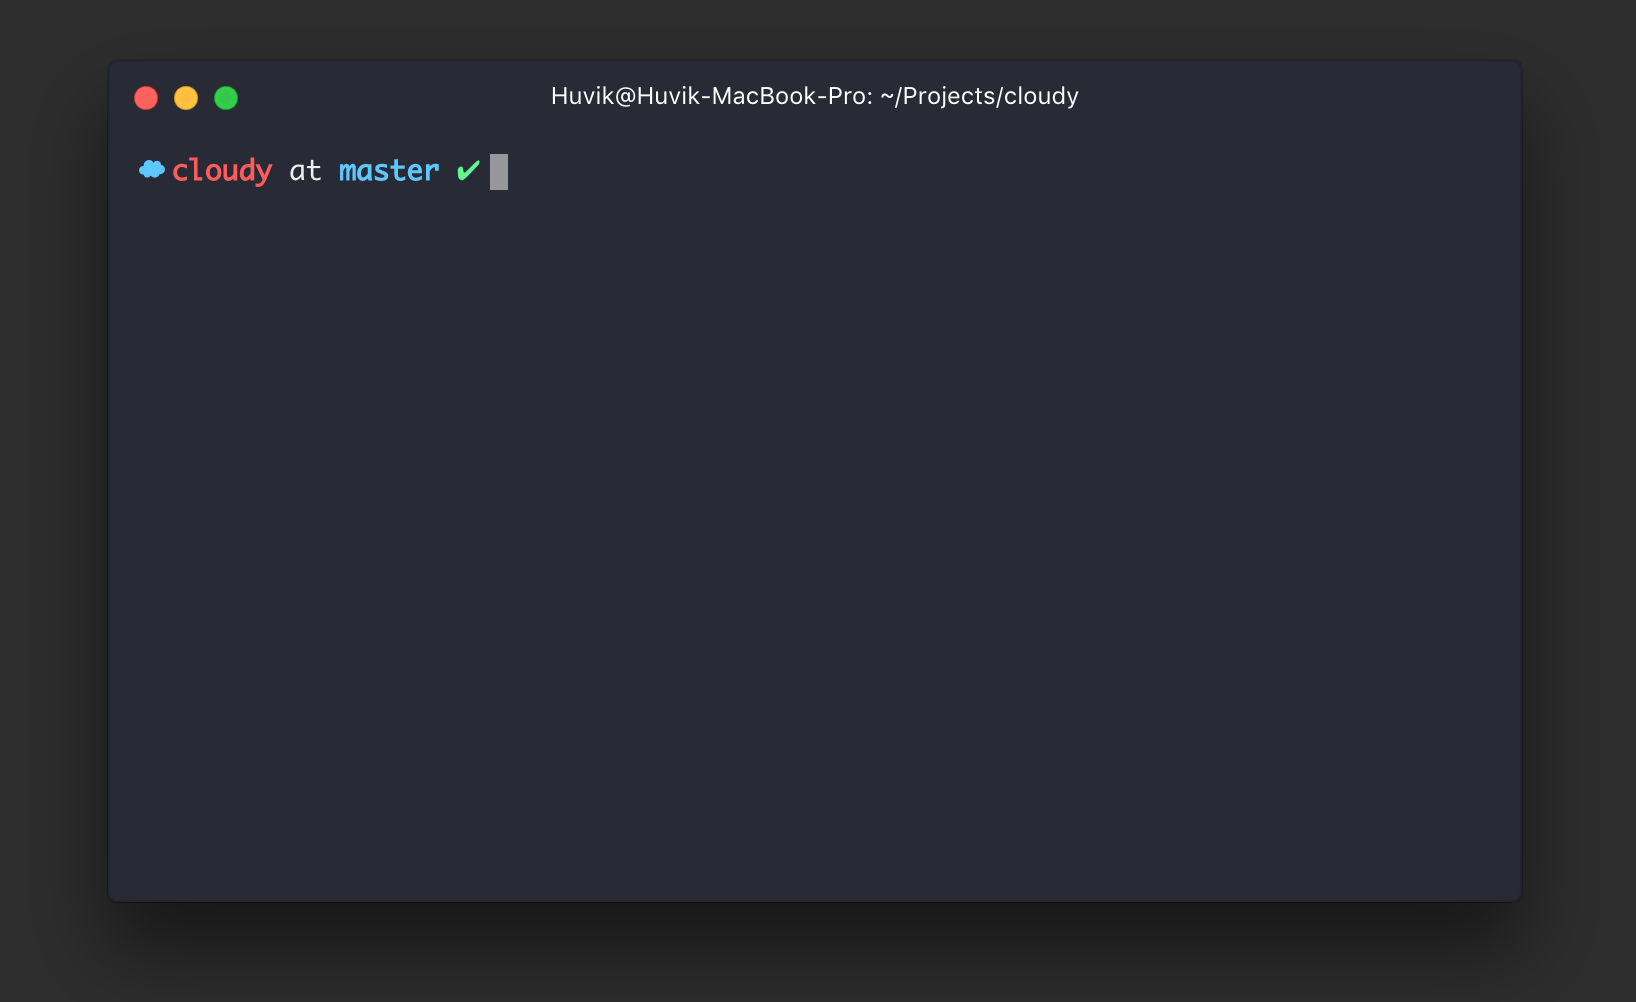
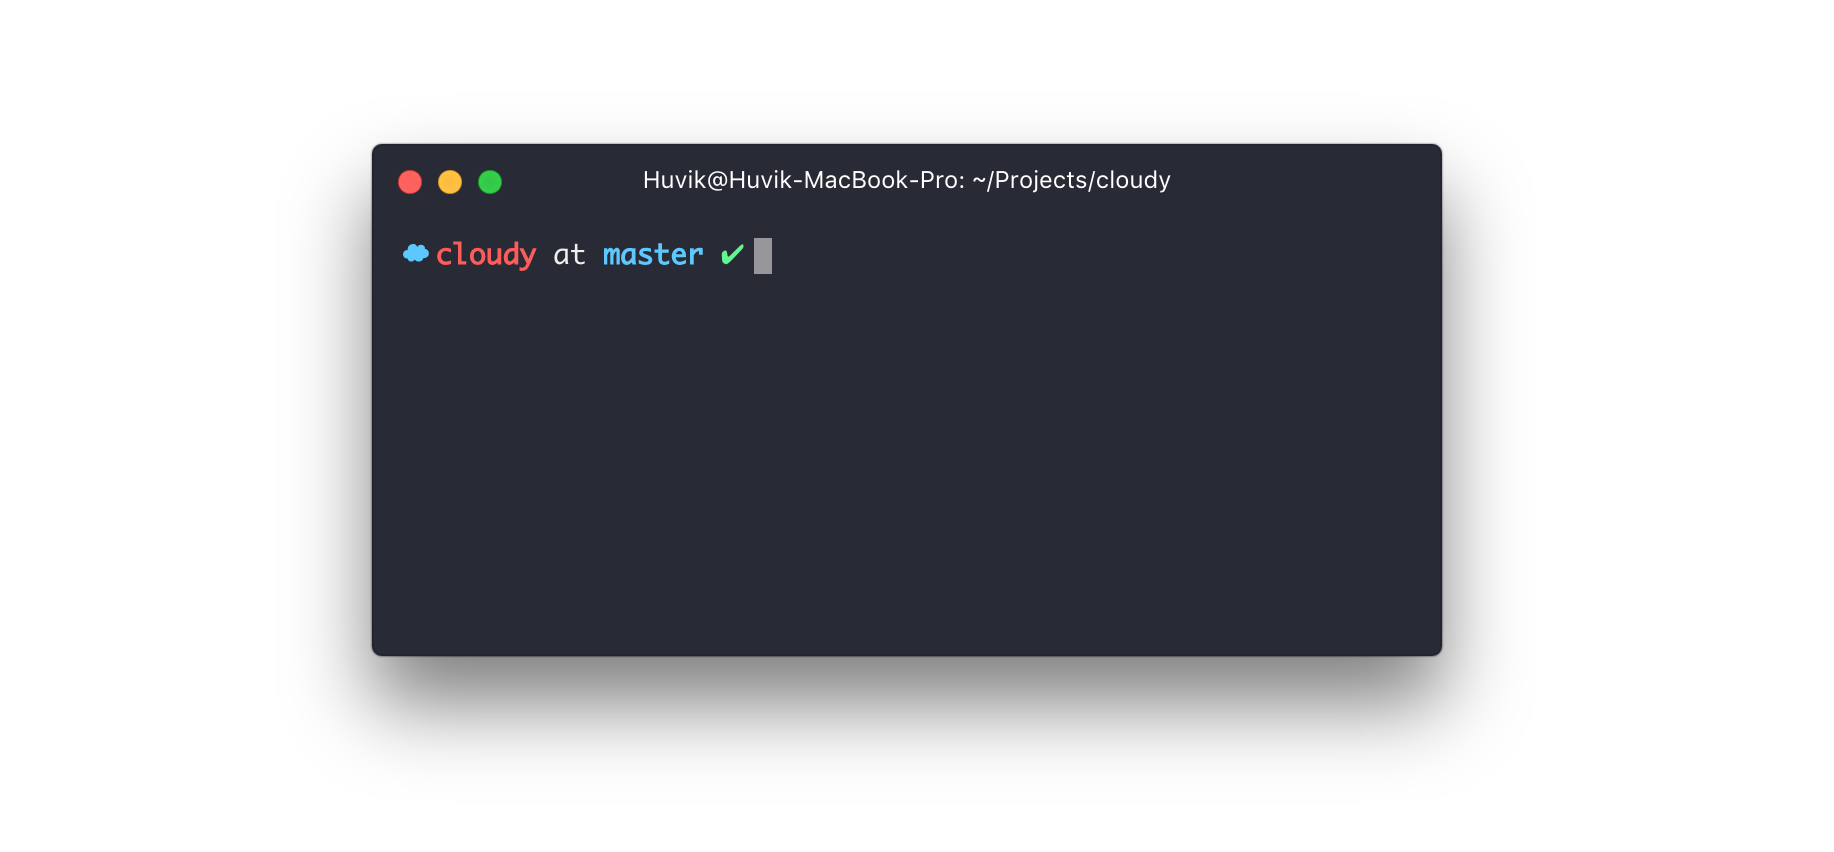
Fixing screen adding readme

diff --git a/README.md b/README.md
@@ -1,2 +1,7 @@
-Cloudy
-Simple Zsh theme
+![](https://github.com/Huvik/Cloudy/blob/master/screen.png)
+# Cloudy
+Simple zsh theme combined with few additions:
+* Monaco font
+* [hyperterm-snazzy](https://github.com/sindresorhus/hyper-snazzy)
+
+You can check my [dotfiles](https://github.com/Huvik/dotfiles)
